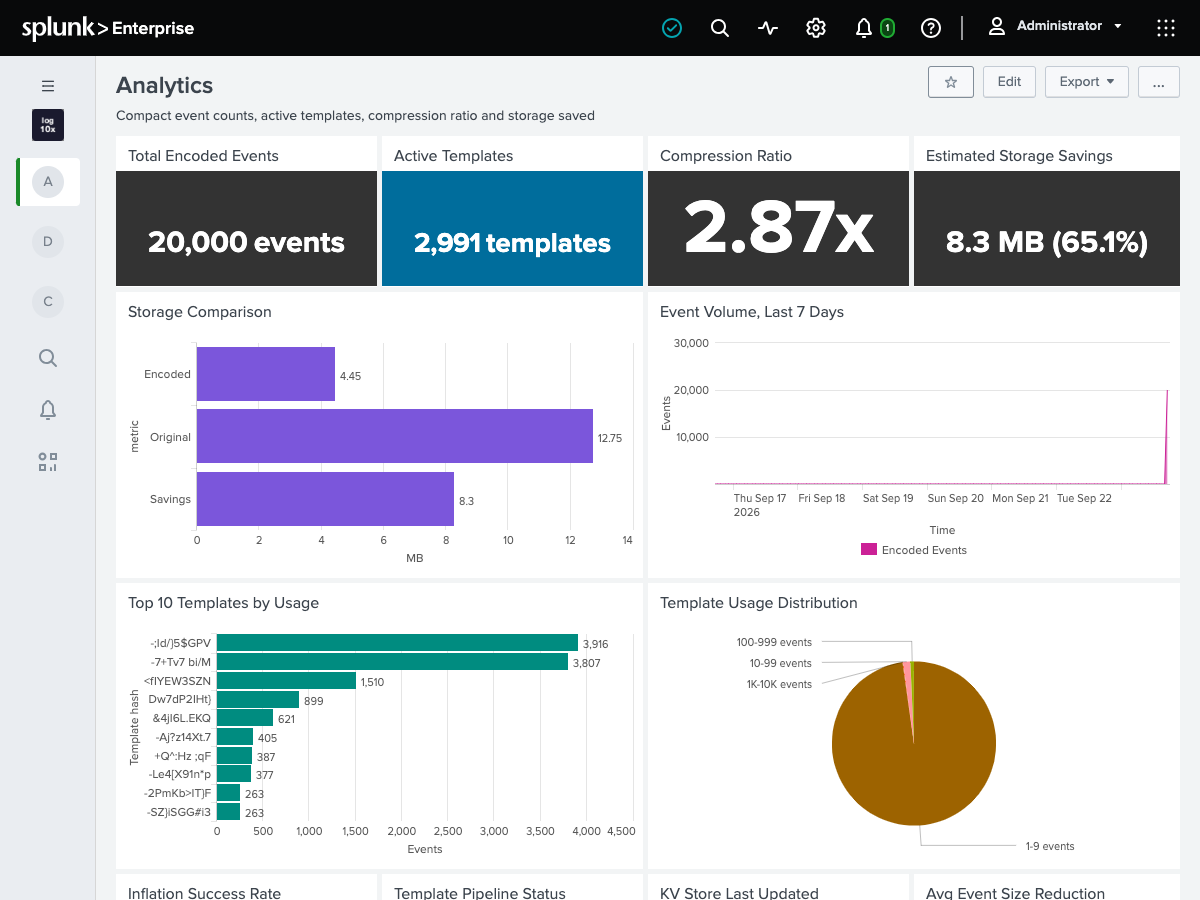
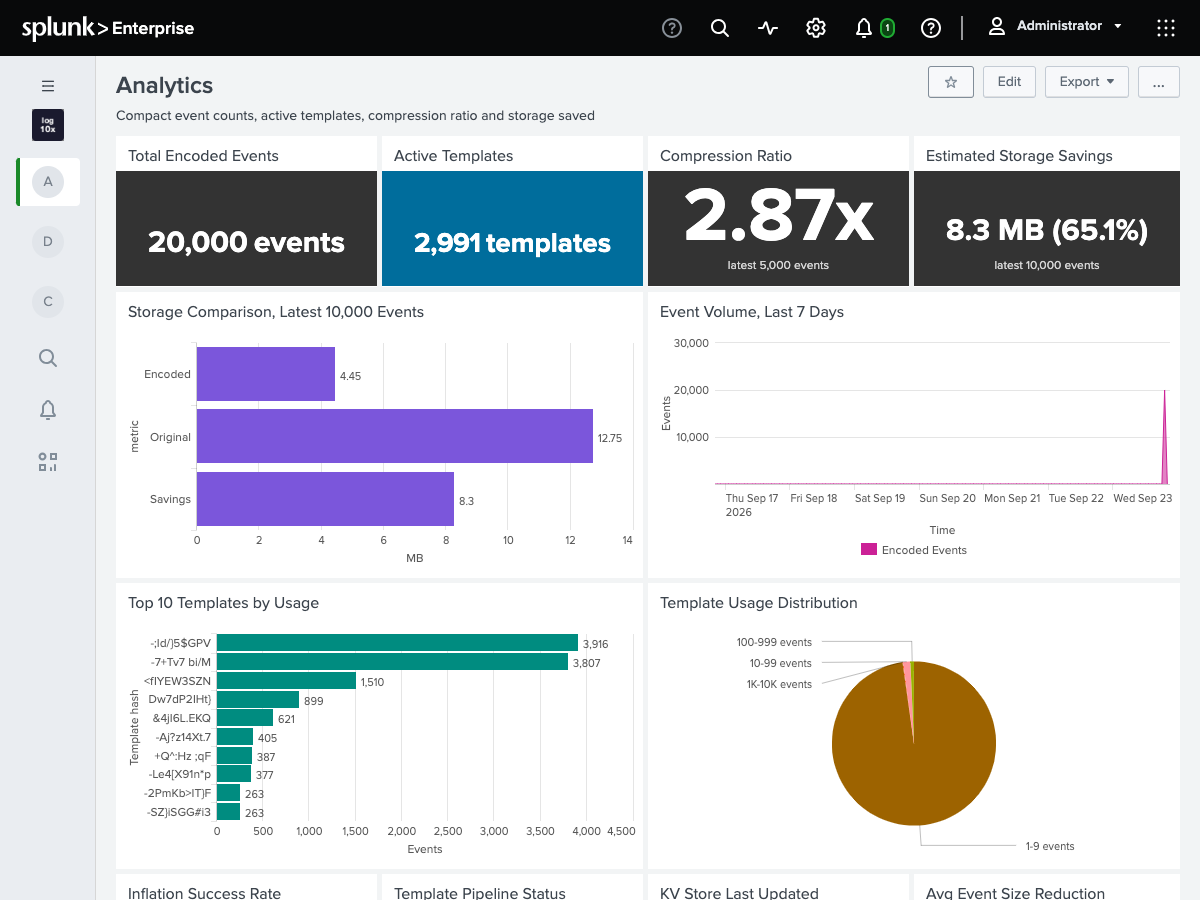
Analytics: label sampled tiles with their sample size
Compression Ratio, Estimated Storage Savings, Inflation Success Rate and Avg Event
Size Reduction are computed on the latest 1,000 to 10,000 events; each tile now says
so, and the sampled chart and table name it in their titles. Screenshot 3 retaken.

diff --git a/README.md b/README.md
@@ -181,11 +181,11 @@ The Analytics dashboard finds compact events through the `tenx-events` macro.
 |--------|-------------|
 | **Total Encoded Events** | Compact events indexed |
 | **Active Templates** | Templates in the KV Store |
-| **Compression Ratio** | Original size over compact size |
-| **Estimated Storage Savings** | Bytes saved and percentage reduction |
+| **Compression Ratio** | Original size over compact size, on the latest 5,000 events |
+| **Estimated Storage Savings** | Bytes saved and percentage reduction, on the latest 10,000 events |
 | **Event Volume, Last 7 Days** | Compact events per hour |
 | **Top 10 Templates by Usage** | Template hashes with the most events |
-| **Inflation Success Rate** | Share of sampled events that expand |
+| **Inflation Success Rate** | Share of the latest 1,000 events that expand |
 
 ## Components
 
